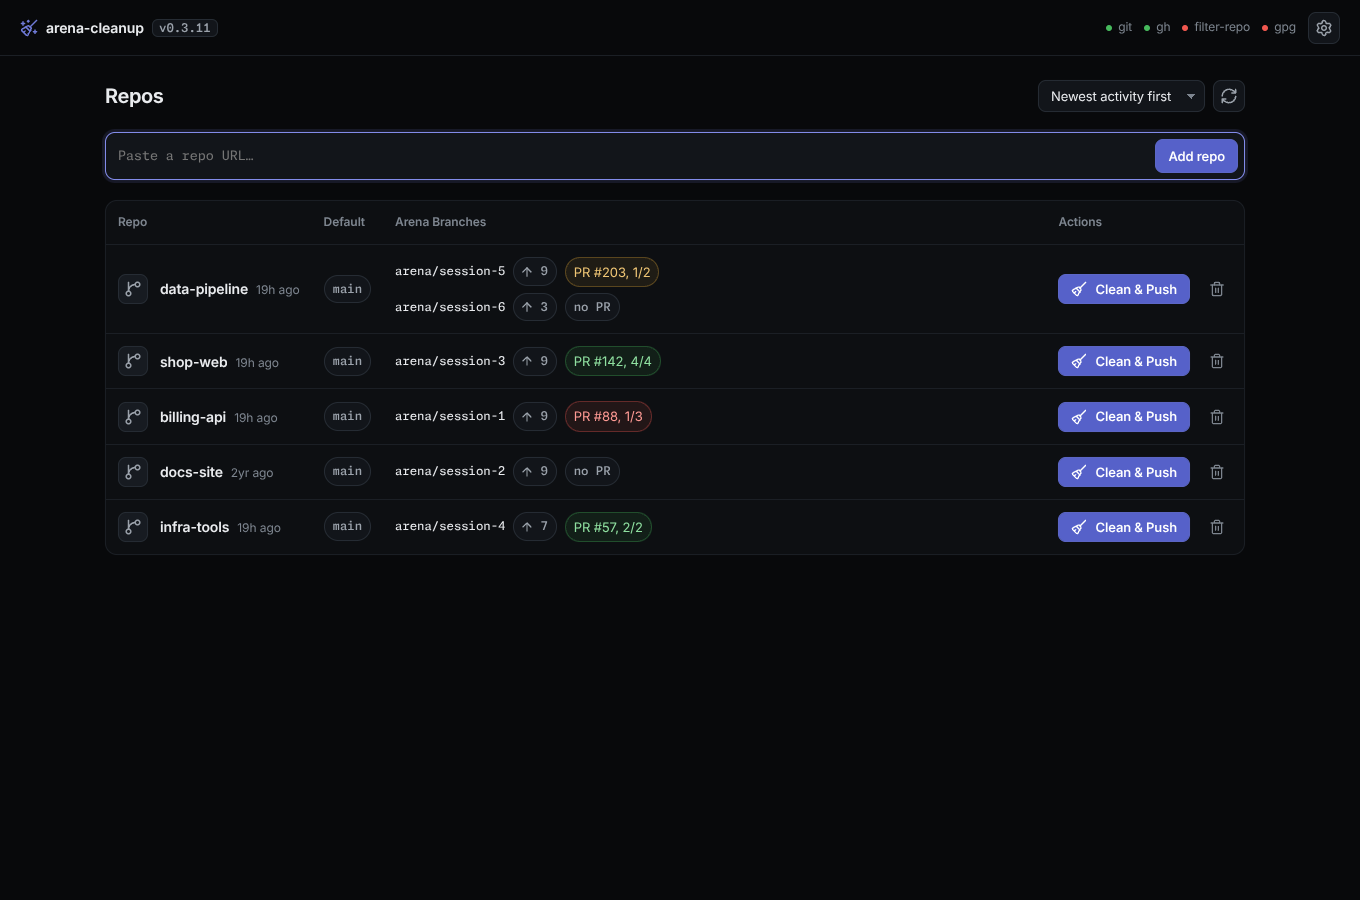
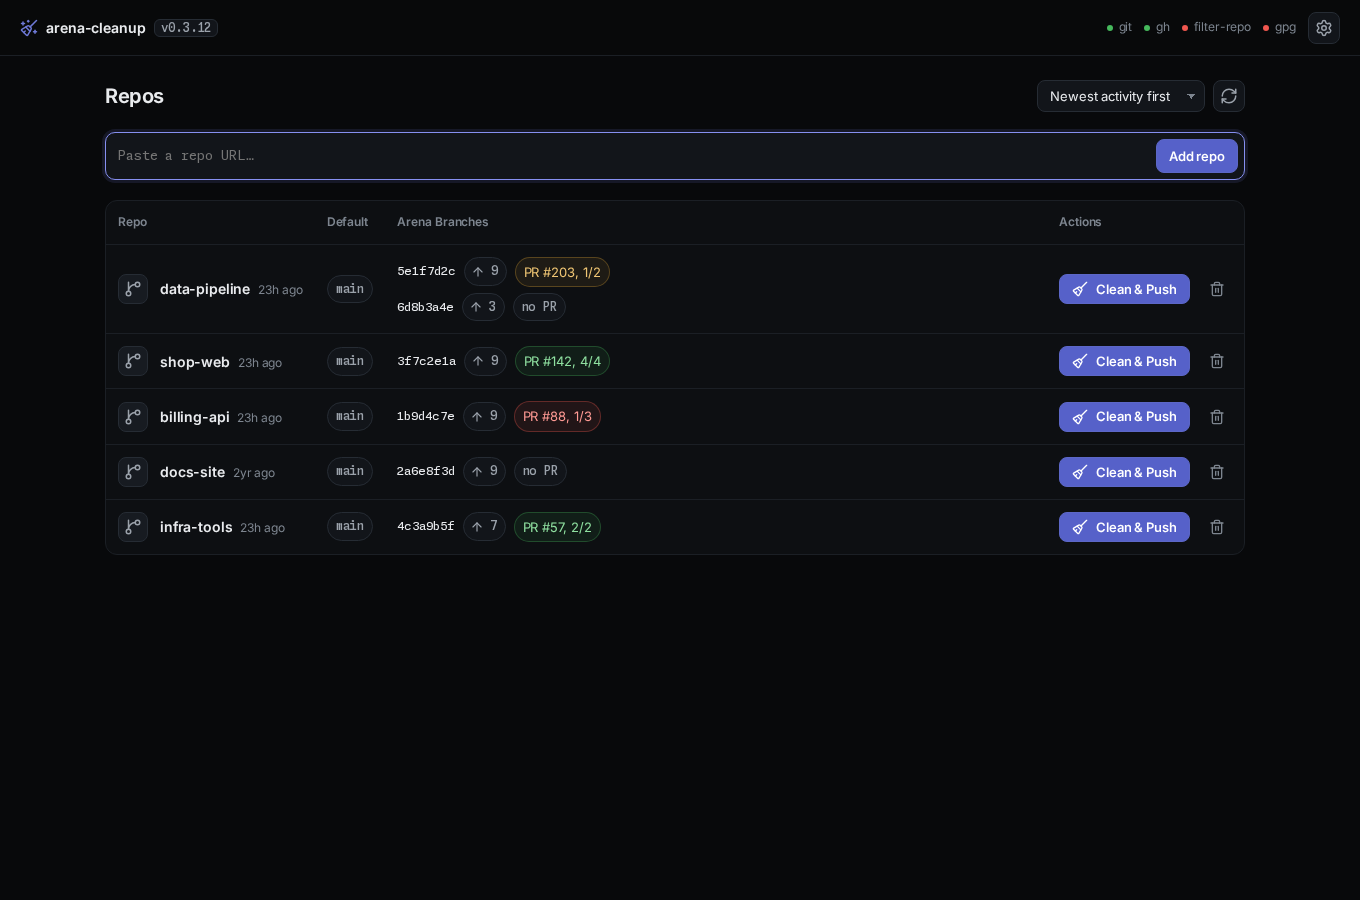
chore(demo): name arena branches like real sessions

diff --git a/tests/e2e/test_branch_slug.py b/tests/e2e/test_branch_slug.py
@@ -17,9 +17,14 @@ from scripts.walk import Walker
 pytestmark = pytest.mark.e2e
 
 REPO = "shop-web"
-OLD = "arena/session-3"
 FULL = "arena/9f2c7a1e-shop-web"
 SLUG = "9f2c7a1e"
+PLAIN = "arena/session-2"
+# the probed repo takes a fresh slug name, and docs-site a name without the repo tail
+RENAMES = {
+  REPO: ("arena/3f7c2e1a-shop-web", FULL),
+  "docs-site": ("arena/2a6e8f3d-docs-site", PLAIN),
+}
 CARD = f".repo-card:has-text('{REPO}')"
 OTHER = ".repo-card:has-text('docs-site')"
 ROW = f'#sidebar .row-btn[data-branch="{FULL}"]'
@@ -27,17 +32,18 @@ NAME = "(e) => [e.textContent, e.title]"
 
 
 def rename(route: Any) -> None:
-  """The probed repo's first arena branch takes the real arena/<slug>-<repo> shape."""
+  """Each renamed repo's arena branch takes its new name in every status field."""
   reply = route.fetch()
   data = reply.json()
   for repo in data if isinstance(data, list) else [data]:
     status = repo.get("status") or {}
-    if repo.get("name") != REPO or OLD not in status.get("arena", []):
+    old, new = RENAMES.get(repo.get("name"), (None, None))
+    if old not in status.get("arena", []):
       continue
-    status["arena"] = [FULL if b == OLD else b for b in status["arena"]]
+    status["arena"] = [new if b == old else b for b in status["arena"]]
     for field in ("ahead", "pr", "tips"):
-      if OLD in status.get(field, {}):
-        status[field][FULL] = status[field].pop(OLD)
+      if old in status.get(field, {}):
+        status[field][new] = status[field].pop(old)
   route.fulfill(response=reply, body=json.dumps(data))
 
 
@@ -52,8 +58,8 @@ def test_an_arena_branch_reads_as_its_slug(desktop: Walker) -> None:
       "the card row shows the slug and keeps the full name as its title"
     )
     assert page.eval_on_selector(f"{OTHER} .arena-row .bname", NAME) == [
-      "arena/session-2",
-      "arena/session-2",
+      PLAIN,
+      PLAIN,
     ], "a branch without the repo name tail keeps its full name"
     desktop.click(f"{CARD} .repo-name", 600)
     page.wait_for_selector(ROW)

diff --git a/tests/e2e/test_phase_modals.py b/tests/e2e/test_phase_modals.py
@@ -21,9 +21,12 @@ pytestmark = pytest.mark.e2e
 RUN = [
   ("INFO", "arena-cleanup 0.3.2 starting"),
   ("OK", "fetched and pruned origin"),
-  ("INFO", "switching to arena/session-4 (tracking origin/arena/session-4)"),
+  (
+    "INFO",
+    "switching to arena/4c3a9b5f-infra-tools (tracking origin/arena/4c3a9b5f-infra-tools)",
+  ),
   ("OK", "already up to date (de96315)"),
-  ("INFO", "checking PR status for arena/session-4"),
+  ("INFO", "checking PR status for arena/4c3a9b5f-infra-tools"),
   ("OK", 'check "lint": SUCCESS'),
   ("OK", "PR #57 checks ok"),
   ("INFO", "scanning 23 commit(s) as Nemo <nemo@example.com>"),
@@ -37,7 +40,7 @@ RUN = [
   ("OK", "moved tag v1.0 11111111 -> 22222222"),
   ("OK", "updated 1 tag(s) on origin"),
   ("INFO", "returning to main"),
-  ("OK", "deleted origin/arena/session-4"),
+  ("OK", "deleted origin/arena/4c3a9b5f-infra-tools"),
   ("OK", "done: 23 commits rewritten"),
 ]
 MODAL = """() => {
@@ -55,7 +58,11 @@ MODAL = """() => {
 }"""
 PATTERN = "**/api/repos/*/jobs/latest"
 JOB = "**/api/jobs/fake"
-PREPARE_STEPS = ["Fetched", "Located remote arena branch", "Pulled arena/session-4"]
+PREPARE_STEPS = [
+  "Fetched",
+  "Located remote arena branch",
+  "Pulled arena/4c3a9b5f-infra-tools",
+]
 
 
 def open_run(

diff --git a/scripts/demo.py b/scripts/demo.py
@@ -65,7 +65,7 @@ REPOS = [
     "shop-web",
     [
       (
-        "arena/session-3",
+        "arena/3f7c2e1a-shop-web",
         {
           "number": 142,
           "title": "feat: checkout page",
@@ -90,7 +90,7 @@ REPOS = [
     "billing-api",
     [
       (
-        "arena/session-1",
+        "arena/1b9d4c7e-billing-api",
         {
           "number": 88,
           "title": "fix: proration rounding",
@@ -104,13 +104,13 @@ REPOS = [
     ],
     False,
   ),
-  ("docs-site", [("arena/session-2", None)], False),
+  ("docs-site", [("arena/2a6e8f3d-docs-site", None)], False),
   # main gained commits after the session: the publish guard stops this run
   (
     "infra-tools",
     [
       (
-        "arena/session-4",
+        "arena/4c3a9b5f-infra-tools",
         {
           "number": 57,
           "title": "chore: pin the base image",
@@ -128,7 +128,7 @@ REPOS = [
     "data-pipeline",
     [
       (
-        "arena/session-5",
+        "arena/5e1f7d2c-data-pipeline",
         {
           "number": 203,
           "title": "feat: incremental loads",
@@ -138,7 +138,7 @@ REPOS = [
           ],
         },
       ),
-      ("arena/session-6", None),
+      ("arena/6d8b3a4e-data-pipeline", None),
     ],
     False,
   ),

diff --git a/tests/e2e/test_commits_arena.py b/tests/e2e/test_commits_arena.py
@@ -14,7 +14,7 @@ from scripts.walk import Walker
 pytestmark = pytest.mark.e2e
 
 FIRST = "() => document.querySelector('#commits .commit .subject').textContent"
-ROW = '#sidebar .row-btn[data-branch="arena/session-5"]'
+ROW = '#sidebar .row-btn[data-branch="arena/5e1f7d2c-data-pipeline"]'
 
 
 def subjects(walker: Walker, repo_id: str, ref: str) -> list[str]:
@@ -30,9 +30,12 @@ def test_the_list_shows_the_selected_arena_branch(desktop: Walker) -> None:
   repos = page.request.get(f"{desktop.url}/api/repos").json()
   repo_id = next(r["id"] for r in repos if r["name"] == "data-pipeline")
   desktop.click(".repo-card:has-text('data-pipeline') .repo-name", 800)
-  assert page.evaluate(FIRST) == subjects(desktop, repo_id, "arena/session-6")[0]
+  assert (
+    page.evaluate(FIRST)
+    == subjects(desktop, repo_id, "arena/6d8b3a4e-data-pipeline")[0]
+  )
   page.click(ROW)
-  want = subjects(desktop, repo_id, "arena/session-5")[0]
+  want = subjects(desktop, repo_id, "arena/5e1f7d2c-data-pipeline")[0]
   page.wait_for_function(
     f"document.querySelector('#commits .commit .subject').textContent === {want!r}"
   )

diff --git a/tests/e2e/test_phases.py b/tests/e2e/test_phases.py
@@ -23,8 +23,11 @@ RUN = [
   ("OK", "fetched and pruned origin"),
   ("INFO", "scanning local arena/* branches"),
   ("WARN", "deleting stale local branch arena/old"),
-  ("INFO", "switching to arena/session-4 (tracking origin/arena/session-4)"),
-  ("INFO", "checking PR status for arena/session-4"),
+  (
+    "INFO",
+    "switching to arena/4c3a9b5f-infra-tools (tracking origin/arena/4c3a9b5f-infra-tools)",
+  ),
+  ("INFO", "checking PR status for arena/4c3a9b5f-infra-tools"),
   ("OK", 'check "lint": SUCCESS'),
   ("OK", "PR #57 checks ok"),
   ("INFO", "scanning 23 commit(s) as Nemo <nemo@example.com>"),
@@ -35,7 +38,7 @@ RUN = [
   ("INFO", "pushing (with lease) HEAD -> refs/heads/main"),
   ("OK", "pushed 2222222 to origin/main"),
   ("INFO", "returning to main"),
-  ("OK", "deleted origin/arena/session-4"),
+  ("OK", "deleted origin/arena/4c3a9b5f-infra-tools"),
   ("OK", "done: 23 commits rewritten"),
 ]
 TIMES = {

diff --git a/tests/e2e/test_page_memory.py b/tests/e2e/test_page_memory.py
@@ -40,10 +40,10 @@ def test_a_branch_seen_before_paints_its_commits_from_memory(desktop: Walker) ->
   page.wait_for_selector("#commits .commit")
   first = len(seen)
   assert first == 1, "one page for the selected branch"
-  desktop.click(ROW.format(branch="arena/session-5"), 600)
+  desktop.click(ROW.format(branch="arena/5e1f7d2c-data-pipeline"), 600)
   page.wait_for_selector("#commits .commit")
   assert len(seen) == first + 1, "a new branch reads its page"
-  desktop.click(ROW.format(branch="arena/session-6"), 600)
+  desktop.click(ROW.format(branch="arena/6d8b3a4e-data-pipeline"), 600)
   page.wait_for_selector("#commits .commit")
   assert len(seen) == first + 1, "a branch seen before paints from memory"
   desktop.click("#commits-refresh", 600)

diff --git a/tests/e2e/test_optimistic.py b/tests/e2e/test_optimistic.py
@@ -12,7 +12,7 @@ from scripts.walk import Walker
 
 pytestmark = pytest.mark.e2e
 
-BRANCH = "arena/session-3"
+BRANCH = "arena/3f7c2e1a-shop-web"
 ROW = f".arena-item:has(.row-btn[data-branch='{BRANCH}'])"
 CARD = ".repo-card:has-text('docs-site')"
 PENDING = ".repo-card.pending"
@@ -56,7 +56,7 @@ def test_the_arena_row_leaves_before_the_reply_and_returns_on_failure(
     page.unroute("**/api/repos/*/arena/delete")
 
 
-SHOP_ROW = f".repo-card:has-text('shop-web') .arena-row:has-text('{BRANCH}')"
+SHOP_ROW = f".repo-card:has-text('shop-web') .arena-row:has(.bname[title='{BRANCH}'])"
 
 
 def test_a_reload_during_the_delete_keeps_the_branch_off_the_card(

diff --git a/tests/e2e/test_overwrite_button.py b/tests/e2e/test_overwrite_button.py
@@ -19,7 +19,7 @@ from scripts.walk import Demo, Walker
 pytestmark = pytest.mark.e2e
 
 REPO = "billing-api"
-BRANCH = "arena/session-1"
+BRANCH = "arena/1b9d4c7e-billing-api"
 CARD = f".repo-card:has-text('{REPO}')"
 OVERWRITE = "a clean would overwrite commits on main"
 BUTTON = (
@@ -118,5 +118,5 @@ def test_the_button_is_live_when_a_branch_is_ahead(
   walker: Walker = request.getfixturevalue(width)
   walker.goto(1200)
   refresh(walker)
-  walker.page.wait_for_selector(f"{CARD} .arena-row:has-text('{BRANCH}')")
+  walker.page.wait_for_selector(f"{CARD} .arena-row:has(.bname[title='{BRANCH}'])")
   check_block(walker, "")

diff --git a/tests/e2e/test_checks_dot.py b/tests/e2e/test_checks_dot.py
@@ -52,8 +52,8 @@ def test_the_sidebar_dot_of_a_running_pr_pulses(desktop: Walker) -> None:
   desktop.goto(1200)
   desktop.click(f"{PIPELINE} .repo-name", 600)
   page.wait_for_selector(".arena-item .dot.live")
-  running = "[data-branch='arena/session-5']"
-  idle = "[data-branch='arena/session-6']"
+  running = "[data-branch='arena/5e1f7d2c-data-pipeline']"
+  idle = "[data-branch='arena/6d8b3a4e-data-pipeline']"
   assert page.evaluate(SIDE_DOT.format(row=running)) == "pulse"
   assert page.evaluate(SIDE_DOT.format(row=idle)) == "none", "no PR, no pulse"
   desktop.click("#back", 600)

diff --git a/tests/e2e/test_checks_modal.py b/tests/e2e/test_checks_modal.py
@@ -60,7 +60,7 @@ def test_the_pill_opens_the_checks_and_the_repo_view_shares_the_modal(
 
 def test_a_row_without_a_pr_keeps_its_plain_pill(desktop: Walker) -> None:
   desktop.goto(1200)
-  row = ".repo-card:has-text('data-pipeline') .arena-row:has-text('session-6')"
+  row = ".repo-card:has-text('data-pipeline') .arena-row:has-text('6d8b3a4e')"
   desktop.page.wait_for_selector(row)
   assert desktop.count(f"{row} span.pill:not(.ahead)") == 1
   assert desktop.count(f"{row} button.pill, {row} .prlink") == 0

diff --git a/tests/e2e/test_target_arena.py b/tests/e2e/test_target_arena.py
@@ -16,7 +16,7 @@ from scripts.walk import Walker
 
 pytestmark = pytest.mark.e2e
 
-PARKED = {"shop-web": "arena/session-9", "billing-api": "feature/invoices"}
+PARKED = {"shop-web": "arena/9a0e5c3b-shop-web", "billing-api": "feature/invoices"}
 CARD = ".repo-card:has-text('{name}') .repo-name"
 ROUTES = ("**/api/fetch", "**/api/repos", "**/api/repos/*")
 SELECT = "(s) => ({ value: s.value, options: [...s.options].map((o) => [o.value, o.textContent]) })"

diff --git a/tests/e2e/test_commits_paging.py b/tests/e2e/test_commits_paging.py
@@ -17,8 +17,8 @@ FIRST = "a" * 40
 LAST_OF_FIRST = "b" * 40
 LAST_OF_SECOND = "c" * 40
 ROWS = "() => document.querySelectorAll('#commits .commit').length"
-# shop-web opens with arena/session-3 selected, so every page names that ref
-REF = "&ref=arena%2Fsession-3"
+# shop-web opens with arena/3f7c2e1a-shop-web selected, so every page names that ref
+REF = "&ref=arena%2F3f7c2e1a-shop-web"
 
 
 def commit(i: int, sha: str) -> dict[str, Any]:
